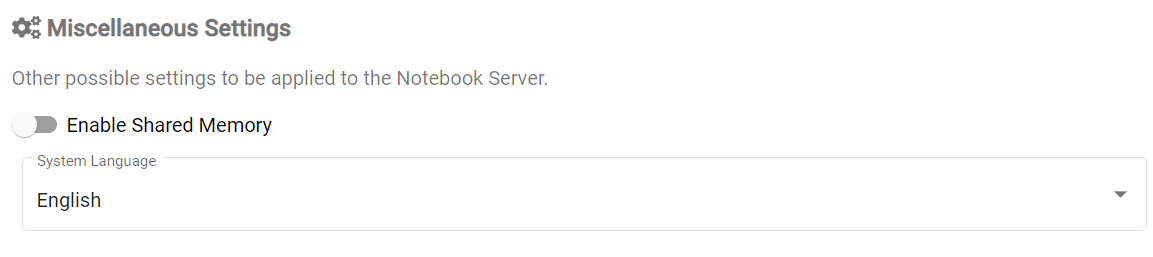
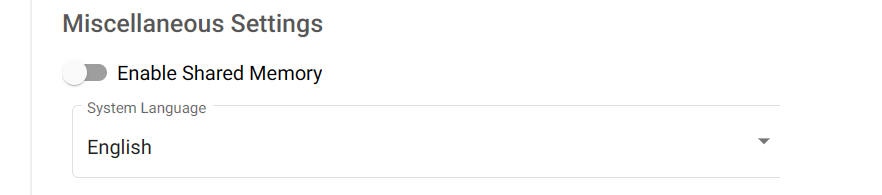
Add text and update images

diff --git a/docs/fr/1-Experiences/Kubeflow.md b/docs/fr/1-Experiences/Kubeflow.md
@@ -38,7 +38,7 @@ votre équipe.
 
 - Accédez à l'onglet Serveurs bloc-notes
 
-![Kubeflow gère les serveurs Jupyter](../images/readme/kubeflow_ui.png)
+![Kubeflow gère les serveurs Jupyter](../images//kubeflow-main-ui.PNG)
 
 - Puis clique **+ Nouveau serveur**
 
@@ -52,9 +52,21 @@ votre équipe.
   qui correspond à ce que tu veux faire. (Vous ne savez pas lequel choisir ?
   Vérifiez vos options [ici](./Selecting-an-Image.md).)
 
-![Choisissez une image](../images/kubeflow_choose_an_image.png)
+![Choisissez une image](../images/select-image-screenshot.PNG)
 
 - Si vous souhaitez utiliser un GPU, vérifiez si l'image indique `cpu` ou `gpu`.
+
+### Image personnalisée
+
+Un utilisateur peut utiliser une image personnalisée, auquel cas il doit connaître la forme exacte de l'image et son nom.
+
+Les images personnalisées de l'utilisateur sont fournies via le dépôt aaw-contrib-containers qui, une fois poussées vers la branche principale, poussera également l'image vers notre ACR. Une fois cette action terminée avec succès, vous pouvez utiliser l'image personnalisée.
+
+Lors de la création d'un bloc-notes, cliquez sur « Options avancées », cochez la case pour l'image personnalisée et saisissez l'image en saisissant `k8scc01covidacr.azurecr.io/[your-image-name-here]:[sha]`.
+
+![Choisir une image](../images/customNotebook.PNG)
+
+Une fois le notebook créé, si le statut n'est pas prêt au bout de quelques minutes, cliquez sur son nom pour voir la page de détails. Ensuite l'onglet « Événements » vous permet de savoir exactement ce qui se passe. Si nécessaire, contactez le canal d’aide sur Slack si le problème persiste.
 
 ## CPU et mémoire
 
@@ -86,6 +98,8 @@ pourriez donc avoir des restrictions plus souples.
 !!! note "Utilisez les machines GPU de manière responsable"
     Il y a moins de machines GPU que de machines CPU, alors utilisez-les de manière responsable.
 
+![Choisir CPU et RAM](../images/cpu-ram.PNG)
+
 ## Stockage de vos données
 
 -Vous aurez envie de créer un volume de données ! Vous pourrez enregistrer votre
@@ -99,6 +113,17 @@ important que vous vous souveniez du nom du volume.**
 !!! conseil "Vérifiez les anciens volumes en regardant l'option Existant"
     Lorsque vous créez votre serveur vous avez la possibilité de réutiliser un ancien volume
     ou en créer un nouveau. Vous souhaitez probablement réutiliser votre ancien volume.
+
+
+## Paramètres divers
+
+Les éléments suivants peuvent être personnalisés ici :
+
+- **Activer la mémoire partagée** : ceci est requis si vous utilisez PyTorch avec plusieurs données
+   chargeurs, qui autrement généreront une erreur. Si vous utilisez PyTorch, assurez-vous de ceci
+   est activé, sinon cela n'a pas d'importance sauf si vous avez une autre application
+   cela nécessite une mémoire partagée.
+- **Langue du système** : Vous pouvez spécifier ici l'anglais ou le français.
 
 ## Et... Créer!!!
 

diff --git a/docs/en/1-Experiments/Kubeflow.md b/docs/en/1-Experiments/Kubeflow.md
@@ -35,7 +35,7 @@ for your team.
 
 - Navigate to the Notebook Servers tab
 
-![Kubeflow Manages the Jupyter Servers](../images/readme/kubeflow_ui.png)
+![Kubeflow Manages the Jupyter Servers](../images/kubeflow-main-ui.PNG)
 
 - Then click **+ New Server**
 
@@ -63,6 +63,16 @@ which one to choose? Check out your options [here](./Selecting-an-Image.md).
 
 ![Choose an Image](../images/select-image-screenshot.PNG)
 
+### Custom images
+A user can use a custom image, in which case they need to know the exact sha of the image and its name.
+
+The user custom images are provided via the aaw-contrib-containers repo which upon pushes to the main branch, will also push the image to our ACR. After that action has successfully completed, you may use the custom image.
+
+Upon the creation of a notebook click 'Advanced options', check the checkbox for custom image and enter the image by entering `k8scc01covidacr.azurecr.io/[your-image-name-here]:[sha]`.
+
+![Choose an Image](../images/customNotebook.PNG)
+
+Once the notebook is created, if the status is not ready in a few minutes, click on it's name to see the details page. Then the 'Events' tab allows you to know exactly what is happening. If necessary, reach out to the help channel on slack if the problem persists.
 ## CPU and Memory
 
 At the time of writing (December 23, 2021) there are two types of computers in
@@ -93,7 +103,7 @@ up certain operations. By requesting one CPU core but a higher limit, you can pa
 less for the notebook server while allowing it to use spare unused CPU cores as needed
 to speed up computations.
 
-![Select CPU and RAM](../images/cpu-ram-select.png)
+![Select CPU and RAM](../images/cpu-ram.PNG)
 
 ## GPUs
 
@@ -103,7 +113,7 @@ you have a GPU specified). Multi-GPU servers are currently supported on the AAW
 system only on a special on-request basis, please contact the AAW maintainers if
 you would like a multi-GPU server.
 
-![GPU Configuration](../images/kubeflow_gpu_selection.jpg)
+![GPU Configuration](../images/kubeflow_gpu_selection.PNG)
 
 As mentioned before, if you select a GPU server you will automatically get 6 CPU
 cores and 112 GiB of memory.
@@ -157,15 +167,7 @@ data volume.
 
 ## Configurations
 
-There are currently three checkbox options available here:
-
-- **Mount MinIO storage to ~/minio (experimental)**: This should make MinIO
-  repositories accessible as subfolders / files of the `minio/` folder. This is
-  still experimental and may not work properly currently.
-- **Run a Protected B notebook**: Enable this if the server you create needs
-  access to any Protected B resources. Protected B notebook servers run with many
-  security restrictions and have access to separate MinIO instances specifically
-  designed for Protected B data.
+If configurations are available, they are presented here as checkboxes. Currently no configuration exist.
 
 ## Miscellaneous Settings
 
